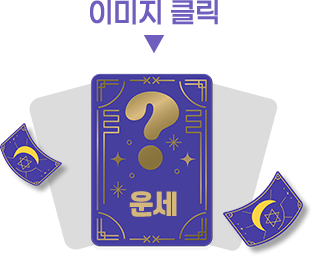
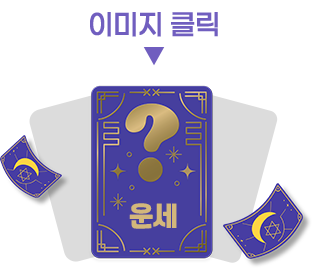
팝업완료

diff --git a/event_01/event.html b/event_01/event.html
@@ -299,9 +299,8 @@
 								<div class="popup_multi_product_row">
 									<img src="./assets/images/popup_end_img.png" alt="">
 								</div>
-								<div class="popup_sub_message_group">
-									<p class="ps_message">카카오톡 공유하시면 <br>캡슐 뽑기 기회를 한 번 더 드립니다</p>
-									<p class="ps_message emp">매일 새로운 기회가 주어지니 <br>내일 또 다시 참여해주세요</p>
+								<div class="popup_coment_row">
+									<p class="coment_para">매일 참여가능!<br>내일 또 다시 참여해주세요!</p>
 								</div>
 								<div class="btn_pcard_row">
 									<a href="#" class="btn_pcard"><span class="btn_pcard_text">내일 다시 참여하기 &gt;</span></a>
@@ -313,7 +312,7 @@
 			</div>
         </div>
     </div>
-	<!-- <div class="popup_wrap" id="popup_already">
+	<div class="popup_wrap" id="popup_already">
         <div class="bg_dim"></div>
         <div class="popup_box_tb_wrap">
 			<div class="popup_box_tb">
@@ -321,14 +320,14 @@
 					<div class="popup_card_container">
 						<div class="popup_card_box">
 							<div class="popup_card_inner">
-								<div class="popup_flag_row type2">
-									<img src="./assets/images/popup_message_thanks.png" alt="">
-								</div>
-								<div class="popup_main_message_row type3">
-									<p class="popup_main_message">이미 이벤트에 <br>참여하셨습니다</p>
+								<div class="popup_main_message_row type4">
+									<p class="popup_main_message">이벤트에 <br>참여하셨습니다</p>
 								</div>
 								<div class="popup_multi_product_row">
-									<img src="./assets/images/popup_thanks_img.png" alt="">
+									<img src="./assets/images/popup_end_img.png" alt="">
+								</div>
+								<div class="popup_coment_row">
+									<p class="coment_para">이벤트를 공유하면 참여 기회를 <br>한 번 더! 드립니다 (1일 최대 3회)</p>
 								</div>
 								<div class="popup_snsbox_row">
 									<a href="#" class="btn_snsbox small"><i class="ico shape_kakao"></i><span class="btn_snsbox_text">카카오톡 공유하기 &gt;</span></a>
@@ -339,7 +338,7 @@
 				</div>
 			</div>
         </div>
-    </div> -->
+    </div>
 	<div class="popup_wrap" id="popup_next">
         <div class="bg_dim"></div>
         <div class="popup_box_tb_wrap">
@@ -349,19 +348,45 @@
 						<div class="popup_card_box">
 							<div class="popup_card_inner">
 								<div class="popup_flag_row type2">
-									<img src="./assets/images/popup_message_next.png" alt="">
+									<img src="./assets/images/popup_message_aa.png" alt="">
 								</div>
 								<div class="popup_main_message_row type2">
-									<p class="popup_main_message">아래 이미지를 클릭하시면 <br>운세보기로 이동합니다</p>
+									<p class="popup_main_message">오늘의 운세를 확인해보세요</p>
 								</div>
 								<div class="popup_product2_row">
-									<img src="./assets/images/popup_next_img.png" alt="">
+									<img src="./assets/images/popup_unse.png" alt="">
 								</div>
-								<div class="popup_summary_para_row"><p class="popup_summary_para">이벤트를 공유하시면 캡슐 뽑기 기회를 <br>한 번 더 드립니다 (1일 최대 3회)</p></div>
+								<div class="popup_summary_para_row"><p class="popup_summary_para">이벤트를 공유하면 참여 기회를 <br>한 번 더! 드립니다 (1일 최대 3회)</p></div>
 								<div class="popup_snsbox_row">
 									<a href="#" class="btn_snsbox small"><i class="ico shape_kakao"></i><span class="btn_snsbox_text">카카오톡 공유하기 &gt;</span></a>
 								</div>
 							</div>
+							<a href="javascript:;" class="btn_popup_close"><span class="hdtext">팝업 닫기</span></a>
+						</div>
+					</div>
+				</div>
+			</div>
+        </div>
+    </div>
+	<div class="popup_wrap" id="popup_last">
+        <div class="bg_dim"></div>
+        <div class="popup_box_tb_wrap">
+			<div class="popup_box_tb">
+				<div class="popup_box_td">
+					<div class="popup_card_container">
+						<div class="popup_card_box">
+							<div class="popup_card_inner">
+								<div class="popup_main_message_row type4">
+									<p class="popup_main_message">이미 이벤트에 <br>참여하셨습니다</p>
+								</div>
+								<div class="popup_multi_product_row">
+									<img src="./assets/images/popup_end_img.png" alt="">
+								</div>
+							</div>
+							<div class="popup_bottom_btn_row">
+								<a href="javascript:;" class="btn_popup_bottom"><span class="btn_popup_bottom_text">확인</span></a>
+							</div>
+							<a href="javascript:;" class="btn_popup_close"><span class="hdtext">팝업 닫기</span></a>
 						</div>
 					</div>
 				</div>
@@ -388,11 +413,14 @@
             let popup_end = new DesignPopup({
                 selector: "#popup_end"
             });
-            /* let popup_already = new DesignPopup({
+             let popup_already = new DesignPopup({
                 selector: "#popup_already"
-            }); */
+            });
             let popup_next = new DesignPopup({
                 selector: "#popup_next"
+            });
+            let popup_last = new DesignPopup({
+                selector: "#popup_last"
             });
 
 			// event
@@ -454,6 +482,8 @@
                 });
 			}else if(url_2 === "next"){
 				popup_next.popupShow();
+			}else if(url_2 === "last"){
+				popup_last.popupShow();
 			}
         });
 	</script>

diff --git a/event_01/assets/css/style.css b/event_01/assets/css/style.css
@@ -344,7 +344,7 @@ html:not(.touchmode) ::-webkit-scrollbar-track {
 .popup_card_container:after{display:block;content:'';background-position:0 0;background-size:100% auto; background-repeat:no-repeat;position:relative;}
 .popup_card_container:before{background-image:url("../images/bg_popup_top.png");height:40px;}
 .popup_card_container:after{background-image:url("../images/bg_popup_bottom.png");height:70px; } */
-.popup_card_box{ margin:0 40px;position:relative;z-index:5; border-radius:40px; background:#fff url("../images/bg_popup_img.png") no-repeat 50% 0/100% auto;
+.popup_card_box{ margin:0 40px;position:relative;z-index:5; border-radius:40px; background:#fff url("../images/bg_popup_img.png") no-repeat 50% 0/100% auto; overflow:hidden;
   box-shadow: 7.053px 9.708px 17px 0px rgba(105, 49, 0, 0.35);
 }
 /* .popup_card_box:before{background:url("../images/bg_popup_middle.png") repeat-y 0 0/100% auto;display:block;content:'';width:100%;height:calc(100% - 57px);position:absolute;top:0;left:0;} */
@@ -382,7 +382,7 @@ html:not(.touchmode) ::-webkit-scrollbar-track {
 .popup_main_message_row{text-align: center;padding:30px;}
 .popup_main_message_row.type2{padding-bottom:10px;}
 .popup_main_message_row.type3{padding:30px 30px 0;}
-.popup_main_message_row.type4{padding:45px 30px 0;}
+.popup_main_message_row.type4{padding:45px 30px 20px;}
 .popup_main_message{font-size:40px; line-height:1.2; letter-spacing: -2px; color:#191919; font-family: 'GmarketSans';font-weight:500;}
 .popup_multi_product_row{text-align: center;}
 .popup_multi_product_row img{vertical-align: top;}
@@ -444,6 +444,10 @@ html:not(.touchmode) ::-webkit-scrollbar-track {
 .btn_modal_close:after{width:2px;height:40px;background:#4d4d4d;display:block;content:'';position:absolute;top:50%;left:50%;margin:-20px 0 0 -1px;}
 .btn_modal_close:before{transform: rotate(45deg);}
 .btn_modal_close:after{transform: rotate(-45deg);}
+
+.popup_bottom_btn_row{margin-top:30px;}
+.btn_popup_bottom{display:flex; justify-content: center; align-items: center; background:#293feb; min-height:114px; text-align: center; box-sizing: border-box;padding:15px;}
+.btn_popup_bottom_text{color:#fff; font-size:42px;font-family: 'OneShinhan';}
 
 @media (max-width:750px){
     /*  */
@@ -763,7 +767,7 @@ html:not(.touchmode) ::-webkit-scrollbar-track {
     .popup_main_message_row{padding:4vw;}
     .popup_main_message_row.type2{padding-bottom:1.333vw;}
     .popup_main_message_row.type3{padding:4vw 4vw 0;}
-    .popup_main_message_row.type4{padding:6vw 4vw 0;}
+    .popup_main_message_row.type4{padding:6vw 4vw 2.667vw;}
     .popup_main_message{font-size:5.333vw;letter-spacing: -1px;}
     .popup_sub_message_group{padding:3.333vw 3.333vw 0}
     .ps_message{font-size:3.467vw; margin-bottom:2vw;}
@@ -773,13 +777,18 @@ html:not(.touchmode) ::-webkit-scrollbar-track {
     .btn_pcard_text{font-size:4.267vw;letter-spacing: -1px;}
 
     .popup_product2_row{}
-    .popup_product2_row img{max-width:61.867vw;}
+    .popup_product2_row img{max-width:41.6vw;}
 
     .popup_summary_para_row{margin-top:3.333vw;}
     .popup_summary_para{font-size:3.067vw;}
 
     .popup_multi_product_row{}
     .popup_multi_product_row img{max-width:82.133vw}
+
+      
+  .popup_bottom_btn_row{margin-top:4vw;}
+  .btn_popup_bottom{min-height:15.2vw;padding:2vw;}
+  .btn_popup_bottom_text{ font-size:5.6vw;}
 }
 
 @media (max-width:1023px) and (orientation: landscape){

diff --git a/event_01/codinglist.html b/event_01/codinglist.html
@@ -126,16 +126,16 @@ a:hover {text-decoration:underline;}
 				</tr>
 				<tr>
 					<td class="no"></td>
-					<td class="link"><a href="event.html?next" target="_blank">아쉬워요</a></td>
+					<td class="link"><a href="event.html?next" target="_blank">운세보기</a></td>
 					<td class="td_url"></td>
-					<td class="work ing"></td>
+					<td class="work end"></td>
 					<td class="bgo"></td>
 				</tr>
 				<tr>
 					<td class="no"></td>
 					<td class="link"><a href="event.html?already" target="_blank">이미참가</a></td>
 					<td class="td_url"></td>
-					<td class="work ing"></td>
+					<td class="work end"></td>
 					<td class="bgo"></td>
 				</tr>
 				<tr>
@@ -149,7 +149,14 @@ a:hover {text-decoration:underline;}
 					<td class="no"></td>
 					<td class="link"><a href="event.html?end" target="_blank">참여완료</a></td>
 					<td class="td_url"></td>
-					<td class="work ing"></td>
+					<td class="work end"></td>
+					<td class="bgo"></td>
+				</tr>
+				<tr>
+					<td class="no"></td>
+					<td class="link"><a href="event.html?last" target="_blank">마지막날</a></td>
+					<td class="td_url"></td>
+					<td class="work end"></td>
 					<td class="bgo"></td>
 				</tr>
 			</tbody>
